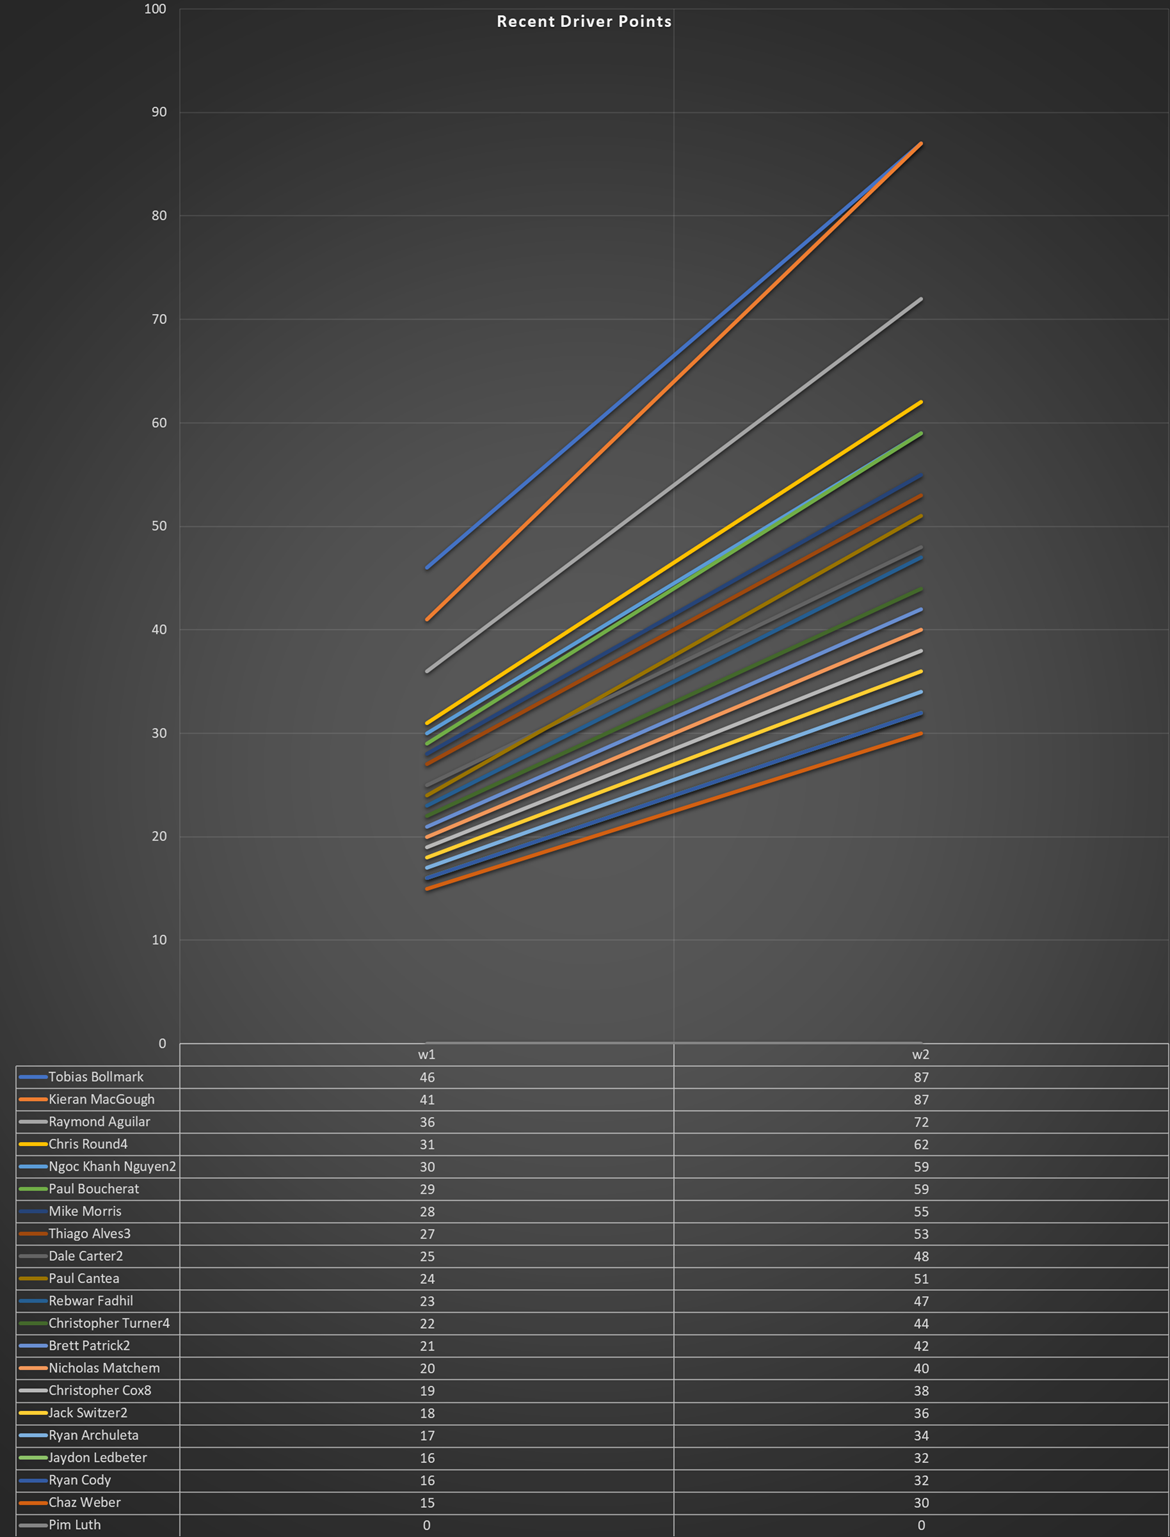
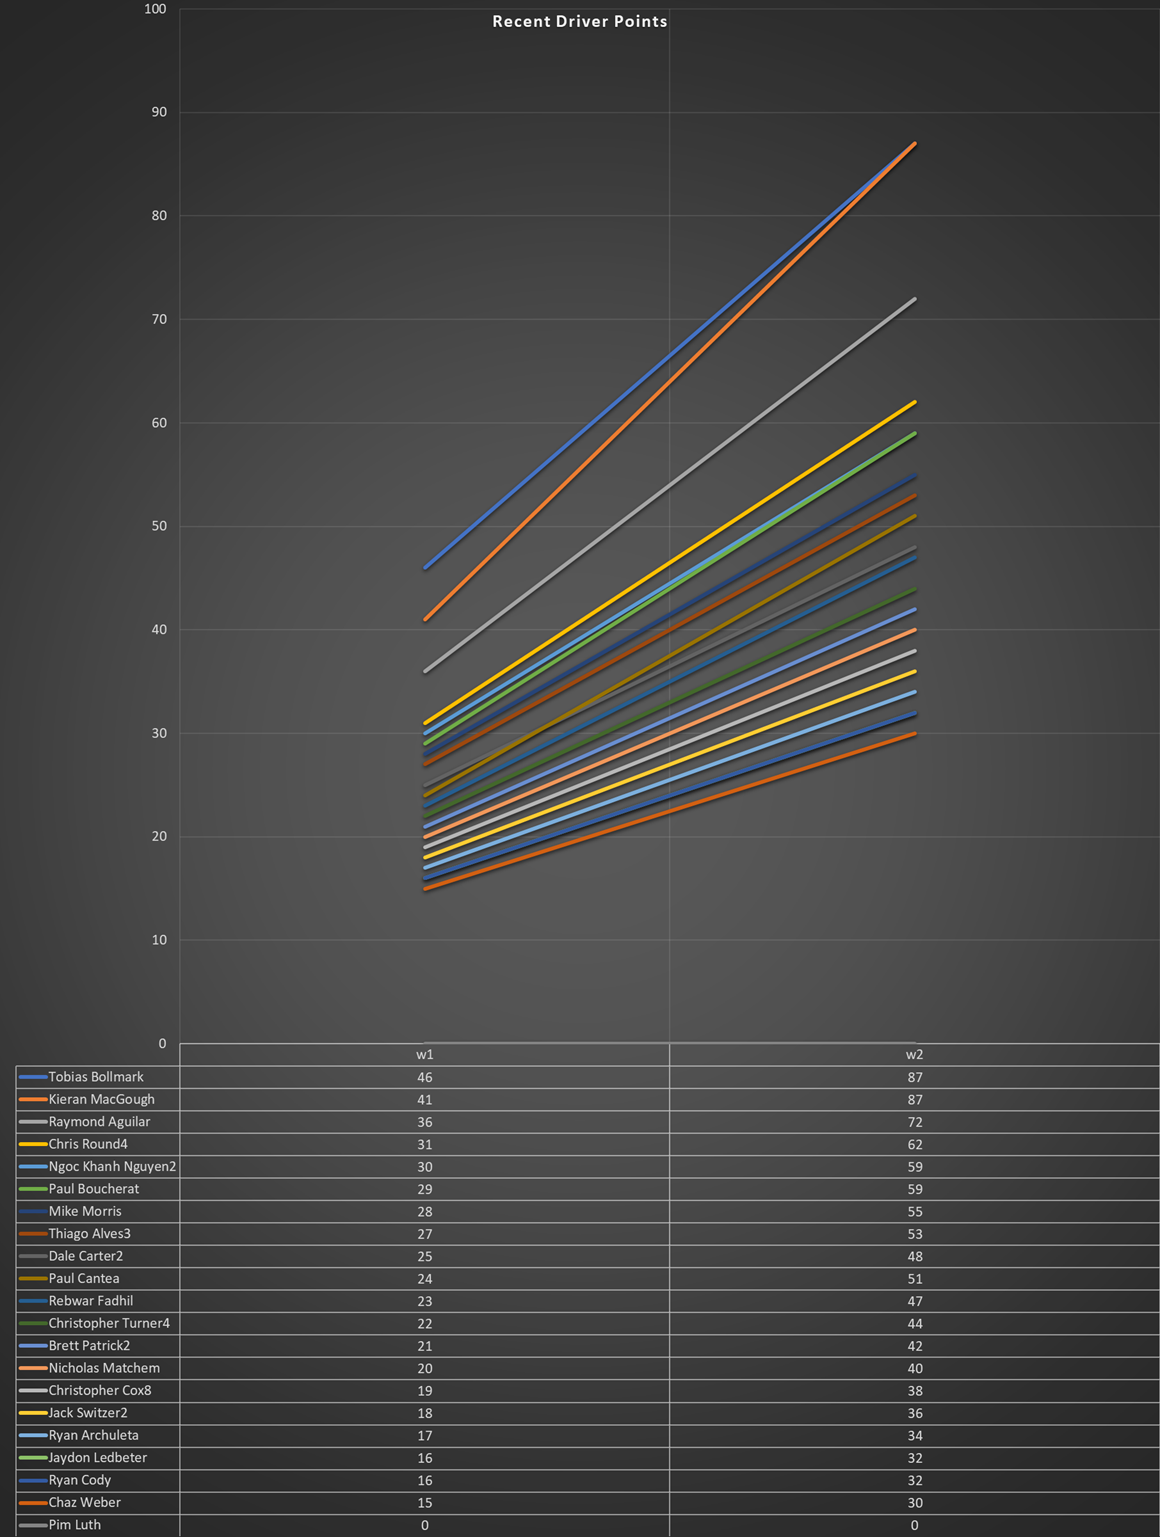
up

diff --git a/baby_1_recent-driver-points-chart.htm b/baby_1_recent-driver-points-chart.htm
@@ -50,12 +50,12 @@ tags will be replaced.-->
 
 <div id="Excel_Baby_26468" align=center x:publishsource="Excel">
 
-<table border=0 cellpadding=0 cellspacing=0 width=1174 style='border-collapse:
- collapse;table-layout:fixed;width:881pt'>
- <col width=1174 style='mso-width-source:userset;mso-width-alt:42934;
- width:881pt'>
+<table border=0 cellpadding=0 cellspacing=0 width=1160 style='border-collapse:
+ collapse;table-layout:fixed;width:870pt'>
+ <col width=1160 style='mso-width-source:userset;mso-width-alt:42422;
+ width:870pt'>
  <tr height=500 style='mso-height-source:userset;height:375.0pt'>
-  <td height=500 width=1174 style='height:375.0pt;width:881pt' align=left
+  <td height=500 width=1160 style='height:375.0pt;width:870pt' align=left
   valign=top><!--[if gte vml 1]><v:shapetype id="_x0000_t75" coordsize="21600,21600"
    o:spt="75" o:preferrelative="t" path="m@4@5l@4@11@9@11@9@5xe" filled="f"
    stroked="f">
@@ -78,7 +78,7 @@ tags will be replaced.-->
    <o:lock v:ext="edit" aspectratio="t"/>
   </v:shapetype><v:shape id="Chart_x0020_Recent_x0020_Driver_x0020_Points"
    o:spid="_x0000_s1025" type="#_x0000_t75" style='position:absolute;
-   margin-left:0;margin-top:0;width:877.5pt;height:1152.75pt;z-index:1;
+   margin-left:0;margin-top:0;width:870pt;height:1152.75pt;z-index:1;
[3 lines of base64/hex data omitted]
@@ -241,12 +241,12 @@ XXXRE4wGO1iyPZHtps3ta0ihhapI4N3M139/ZiQf0VdImtxbuGuRfBptY8PXrA3hWnHusRUGfGoU
[18 lines of base64/hex data omitted]
@@ -262,7 +262,7 @@ AAAhAMGAnBrGAQAA8AQAAA4AAAAAAAAAAAAAAAAAagIAAGRycy9lMm9Eb2MueG1sUEsBAi0AFAAG
[8 lines of base64/hex data omitted]
@@ -277,14 +277,14 @@ cmVsc1BLBQYAAAAACQAJAFICAABVJwAAAAA=
     <x:AutoPict/>
    </x:ClientData>
   </v:shape><![endif]--><![if !vml]><span style='mso-ignore:vglayout;
-  position:absolute;z-index:1;margin-left:0px;margin-top:0px;width:1170px;
-  height:1537px'><img width=1170 height=1537
+  position:absolute;z-index:1;margin-left:0px;margin-top:0px;width:1160px;
+  height:1537px'><img width=1160 height=1537
   src="baby_1_recent-driver-points-chart_files/Excel_Baby_26468_image002.png"
   v:shapes="Chart_x0020_Recent_x0020_Driver_x0020_Points"></span><![endif]><span
   style='mso-ignore:vglayout2'>
   <table cellpadding=0 cellspacing=0>
    <tr>
-    <td height=500 class=xl1526468 width=1174 style='height:375.0pt;width:881pt'></td>
+    <td height=500 class=xl1526468 width=1160 style='height:375.0pt;width:870pt'></td>
    </tr>
   </table>
   </span></td>
@@ -300,7 +300,7 @@ cmVsc1BLBQYAAAAACQAJAFICAABVJwAAAAA=
  </tr>
  <![if supportMisalignedColumns]>
  <tr height=0 style='display:none'>
-  <td width=1174 style='width:881pt'></td>
+  <td width=1160 style='width:870pt'></td>
  </tr>
  <![endif]>
 </table>
@@ -314,6 +314,7 @@ cmVsc1BLBQYAAAAACQAJAFICAABVJwAAAAA=
 </body>
 
 </html>
+
 
 
 

diff --git a/penalties_w1.htm b/penalties_w1.htm
@@ -2846,3 +2846,4 @@ tags will be replaced.-->
 
 
 
+

diff --git a/penalties_w10.htm b/penalties_w10.htm
@@ -2845,3 +2845,4 @@ tags will be replaced.-->
 
 
 
+

diff --git a/penalties_w11.htm b/penalties_w11.htm
@@ -2845,3 +2845,4 @@ tags will be replaced.-->
 
 
 
+

diff --git a/penalties_w12.htm b/penalties_w12.htm
@@ -2844,3 +2844,4 @@ tags will be replaced.-->
 
 
 
+

diff --git a/penalties_w2.htm b/penalties_w2.htm
@@ -2846,3 +2846,4 @@ tags will be replaced.-->
 
 
 
+

diff --git a/penalties_w3.htm b/penalties_w3.htm
@@ -2846,3 +2846,4 @@ tags will be replaced.-->
 
 
 
+

diff --git a/penalties_w4.htm b/penalties_w4.htm
@@ -2846,3 +2846,4 @@ tags will be replaced.-->
 
 
 
+

diff --git a/penalties_w5.htm b/penalties_w5.htm
@@ -2844,3 +2844,4 @@ tags will be replaced.-->
 
 
 
+

diff --git a/penalties_w6.htm b/penalties_w6.htm
@@ -2845,3 +2845,4 @@ tags will be replaced.-->
 
 
 
+

diff --git a/penalties_w7.htm b/penalties_w7.htm
@@ -2845,3 +2845,4 @@ tags will be replaced.-->
 
 
 
+

diff --git a/penalties_w8.htm b/penalties_w8.htm
@@ -2845,3 +2845,4 @@ tags will be replaced.-->
 
 
 
+
